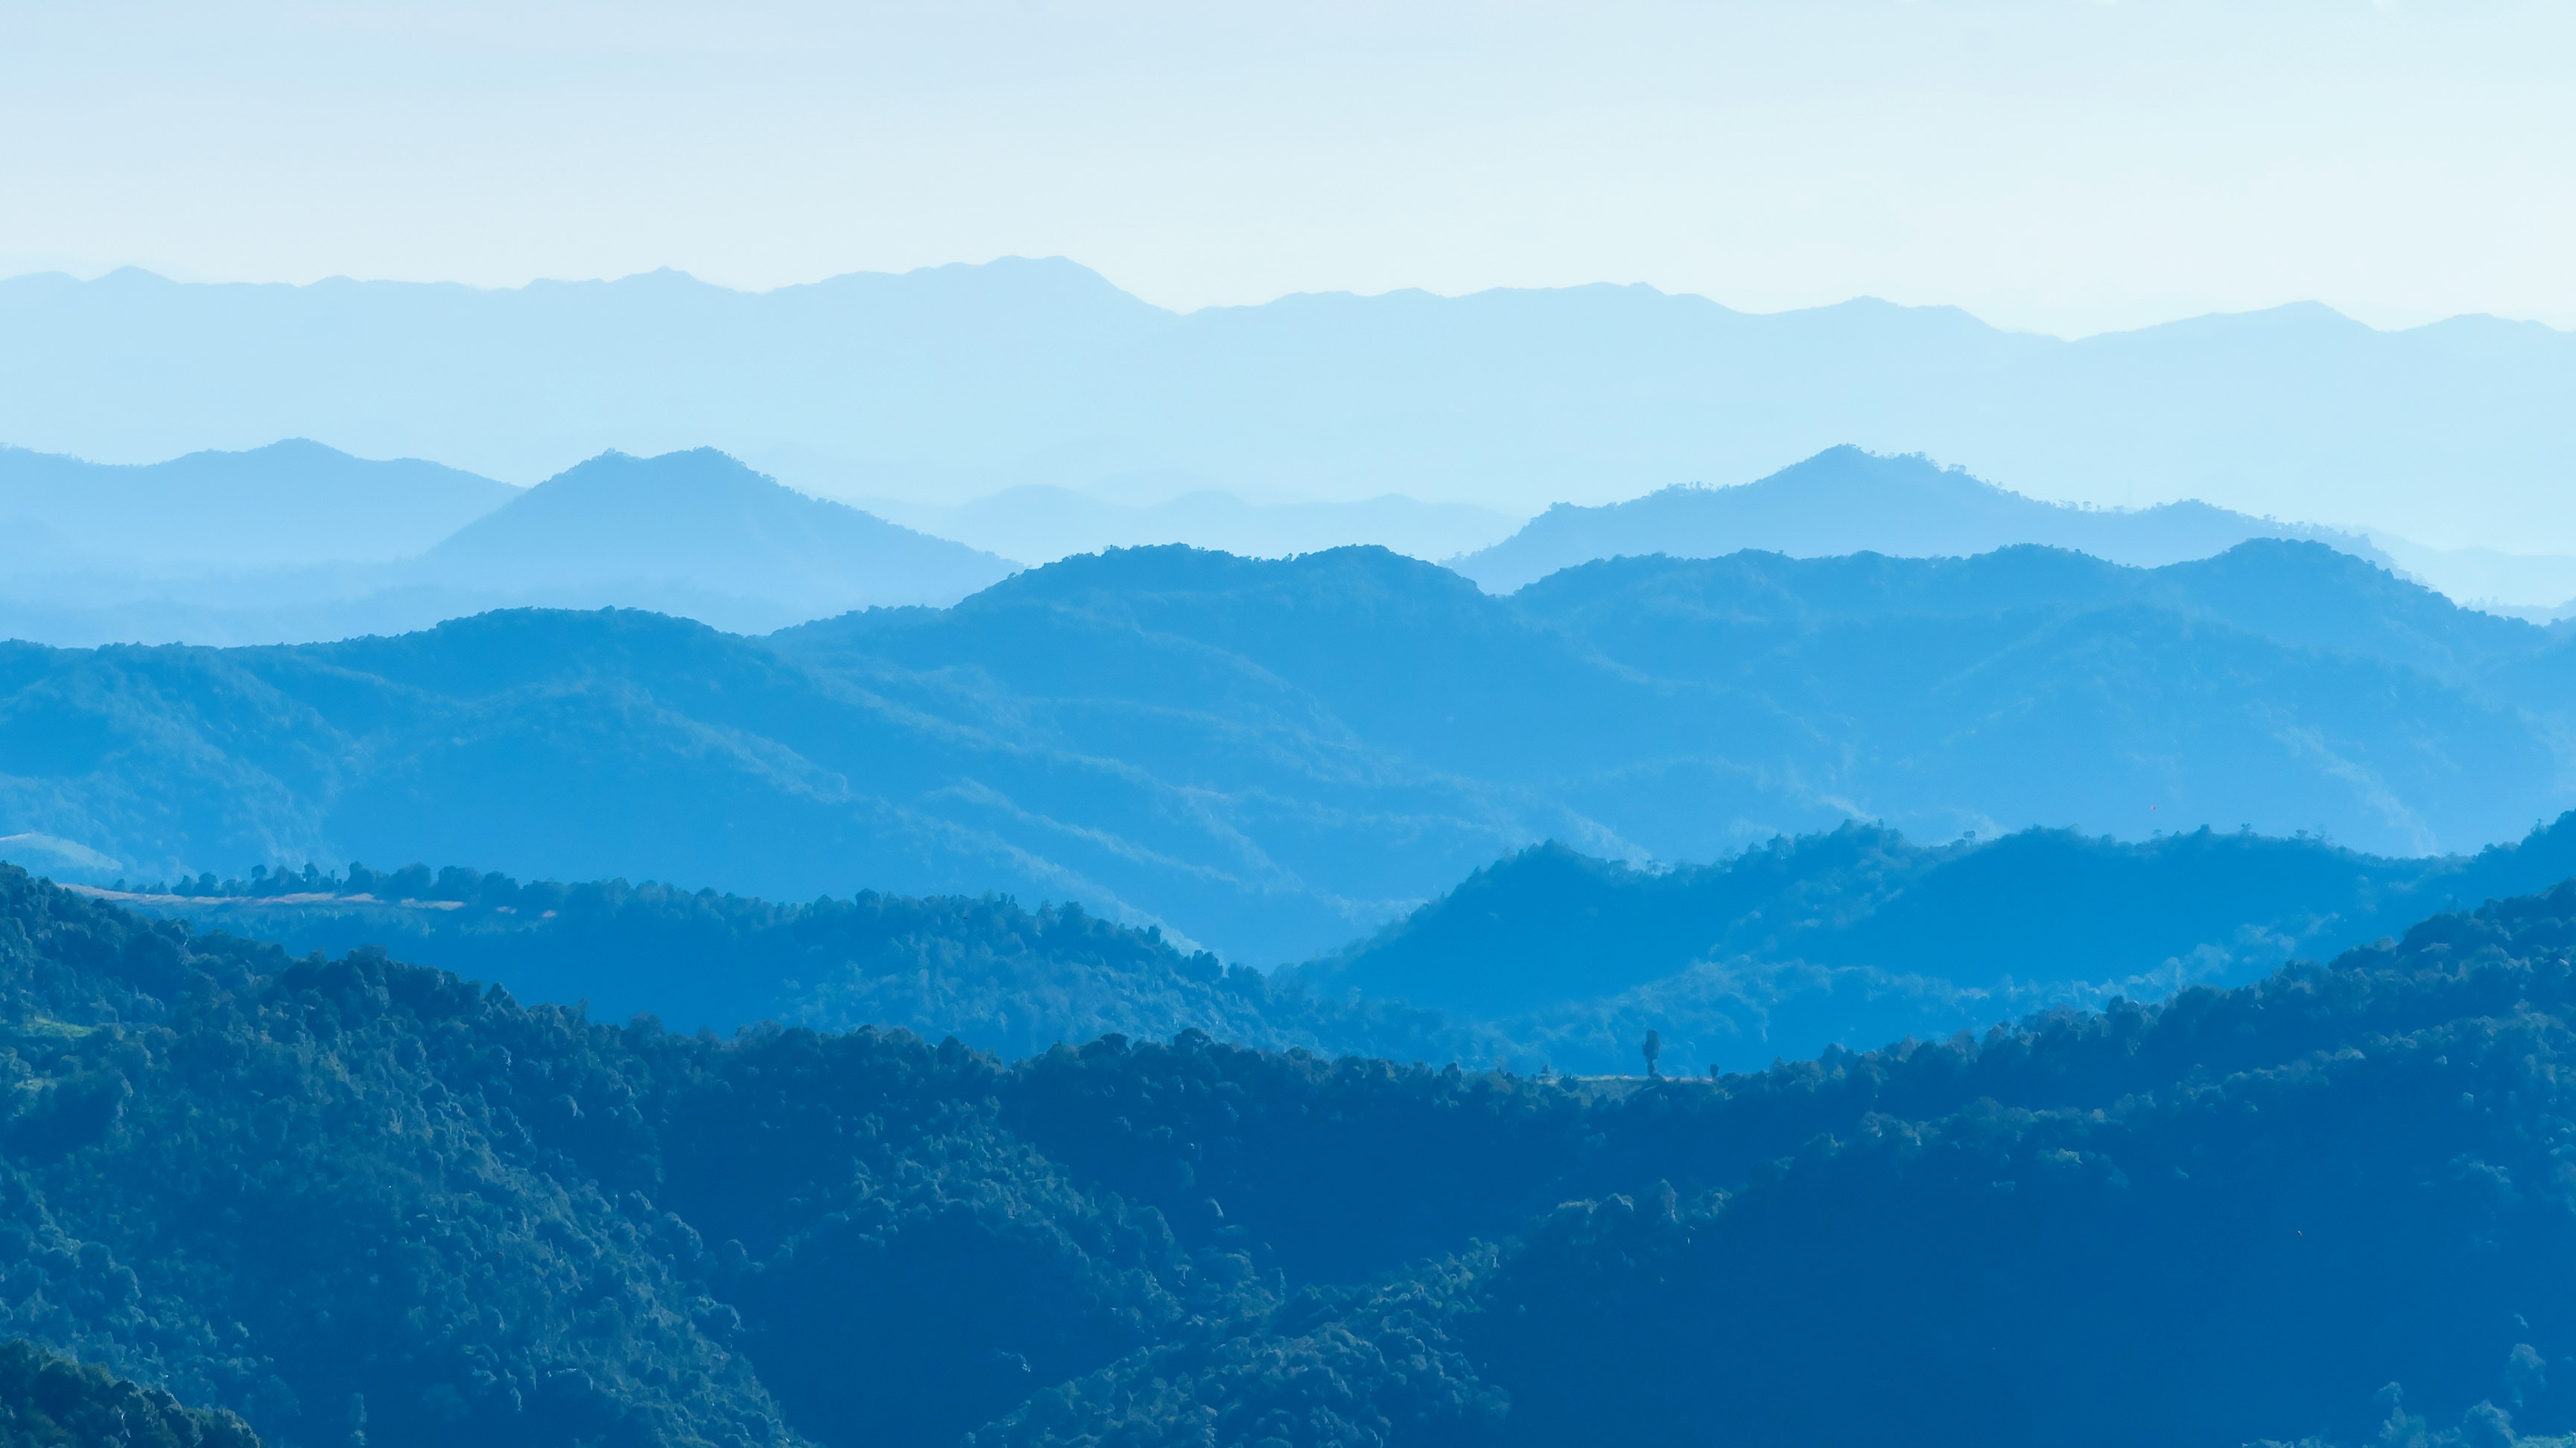
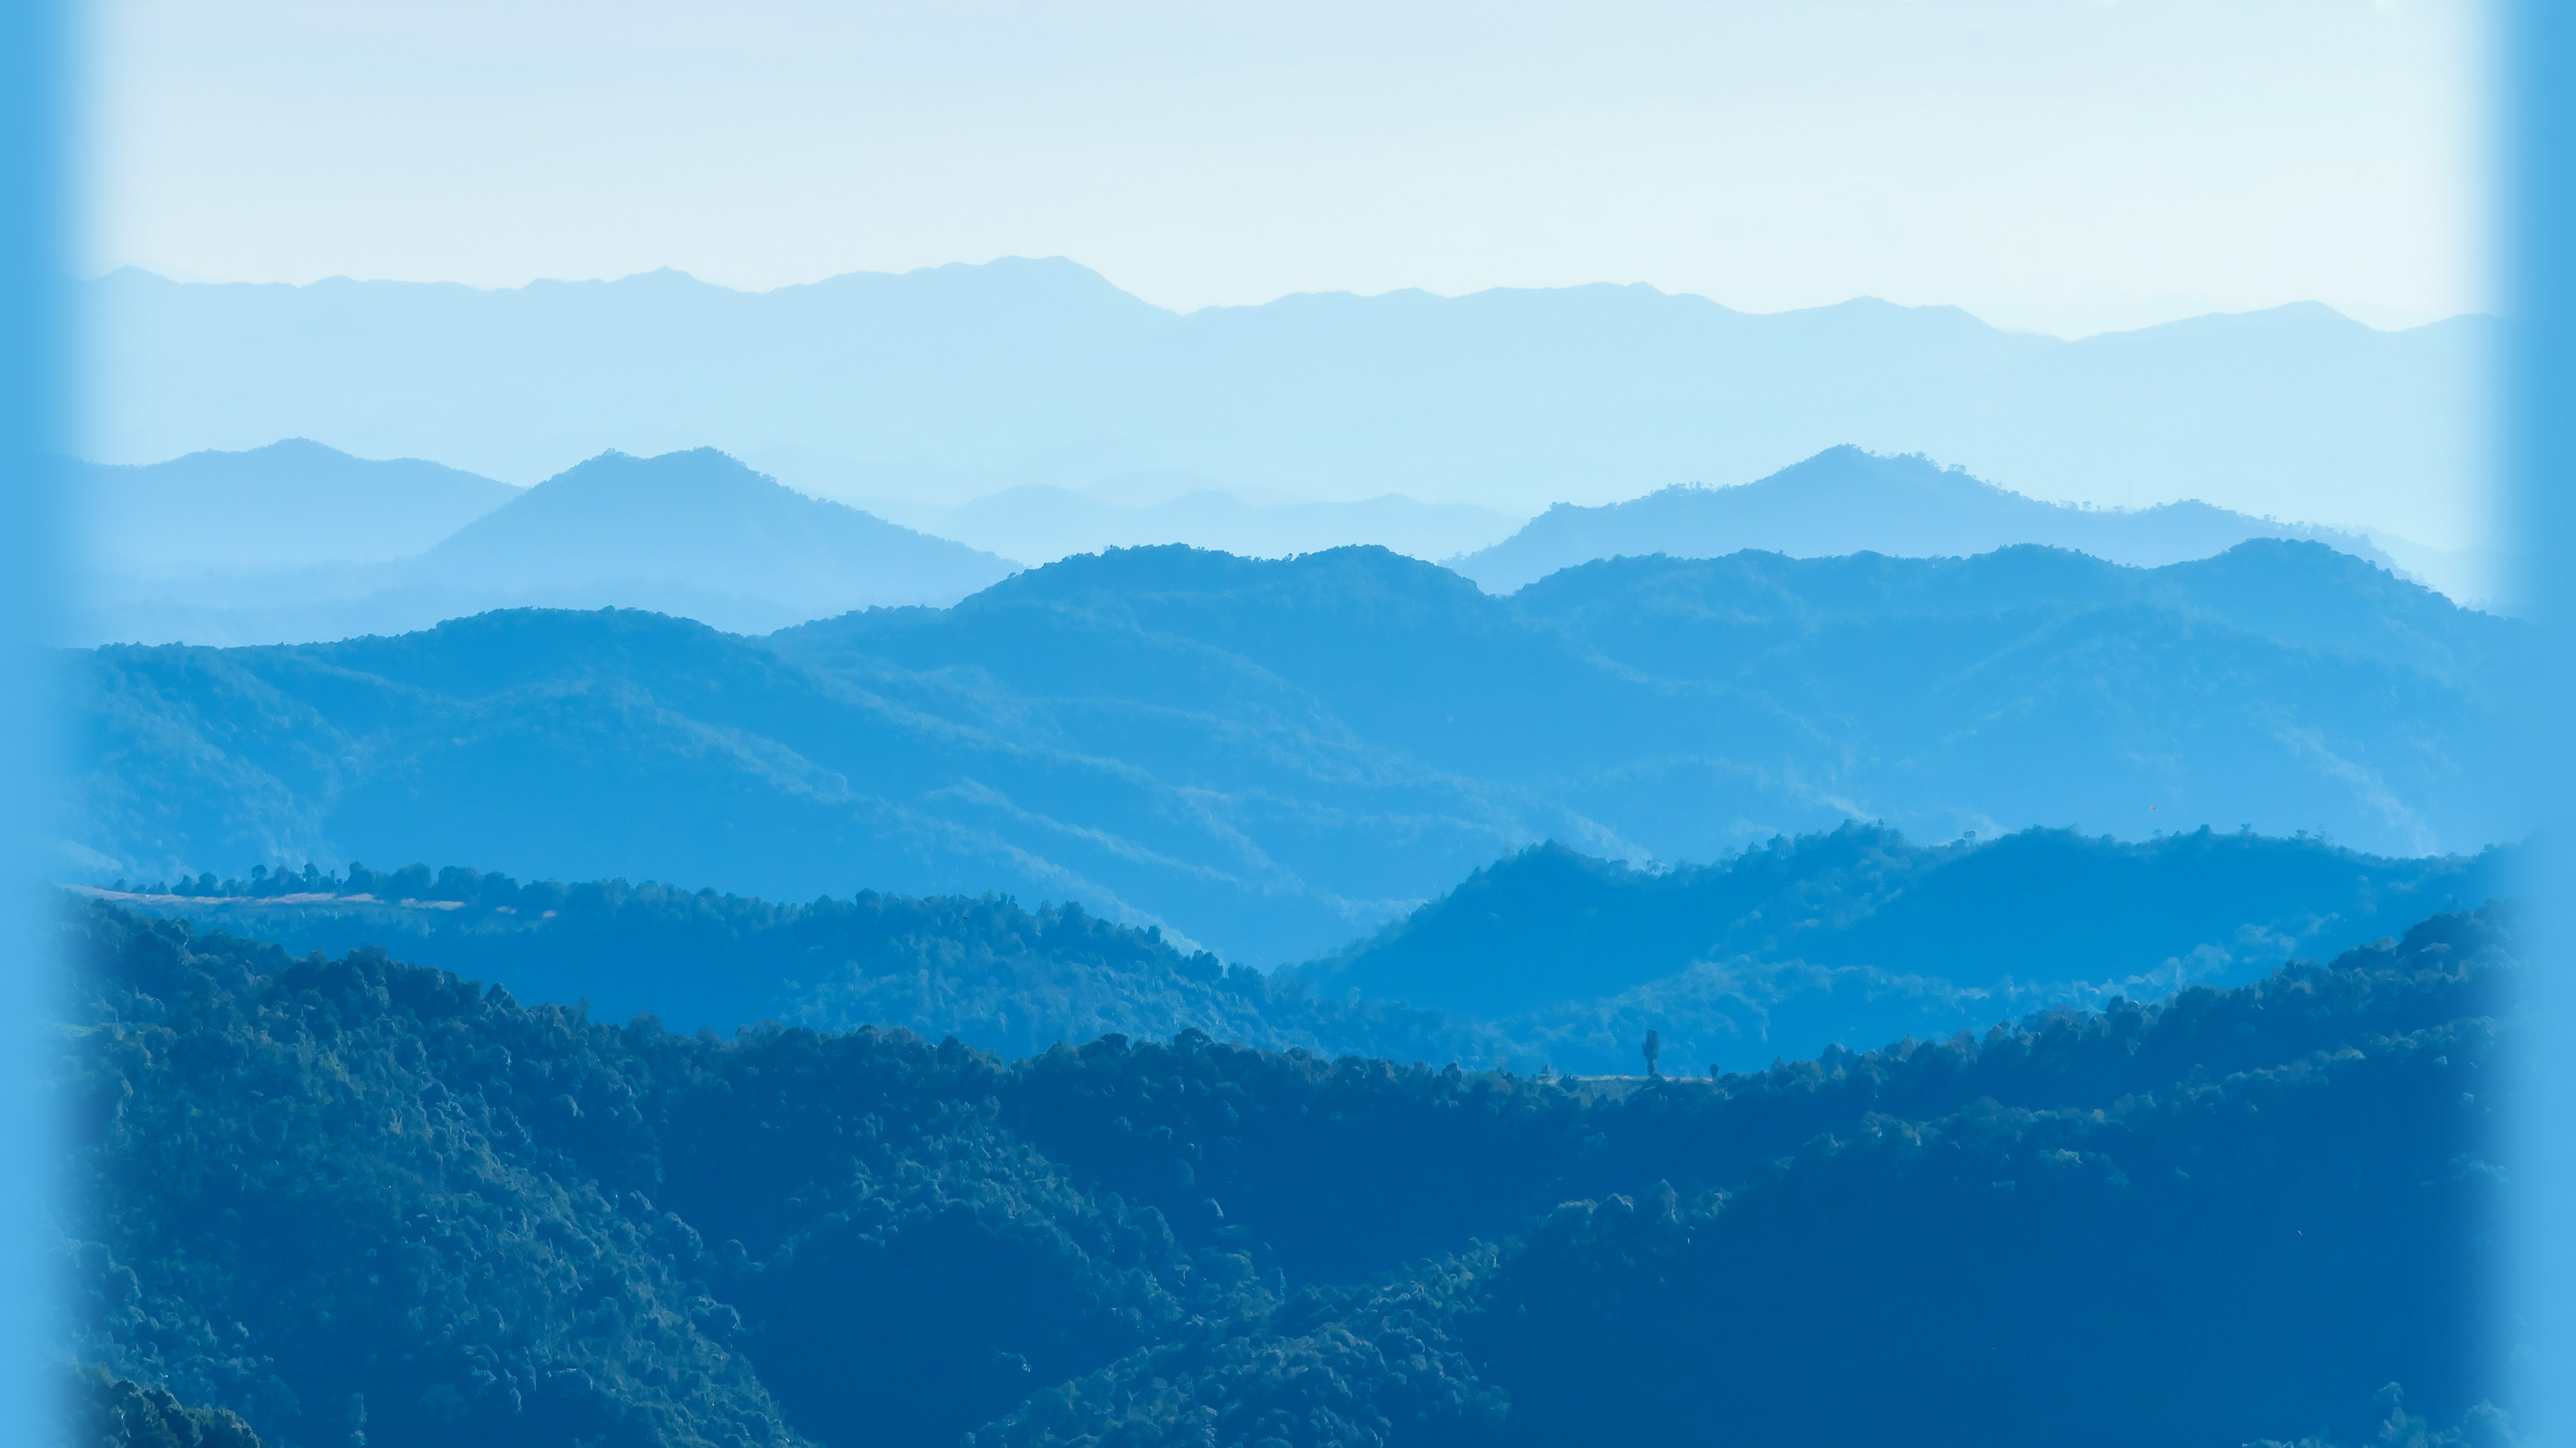
changed background image for blue theme

Changed region(s): [[0.0, 0.0, 0.0625, 1.0], [0.937, 0.4936, 1.0, 1.0], [0.937, 0.0, 1.0, 0.4319]]

diff --git a/app/globals.css b/app/globals.css
@@ -104,16 +104,16 @@ body,
     --color-switch-checked: #34d399;
   }
   .theme-sky {
-    --color-fill: #38bdf8; 
-    --color-text-base: #000000;
-    --color-text-inverted: #38bdf8;
-    --color-button-accent: #38bdf8;
-    --color-button-onbackground-accent: #000000;
+    --color-fill: #4eaee3; 
+    --color-text-base:  #002b57;
+    --color-text-inverted: #4eaee3;
+    --color-button-accent: #4eaee3;
+    --color-button-onbackground-accent:#002b57;
     --color-button-accent-hover: #60caf9; /* 80% opacity of button color */
-    --color-icon-accent: #38bdf8;
+    --color-icon-accent: #4eaee3;
     --color-icon-accent-hover: #60caf9; /* 80% opacity of icon color */
-    --color-dropdownitem-accent-hover: #38bdf8;
-    --color-switch-checked: #38bdf8;
+    --color-dropdownitem-accent-hover: #4eaee3;
+    --color-switch-checked: #4eaee3;
     --background-image: url('../public/images/blue_mountains_back.jpg');
     --background-size: auto 100%; /* width is auto, height is 100% */
     --background-repeat: no-repeat;
